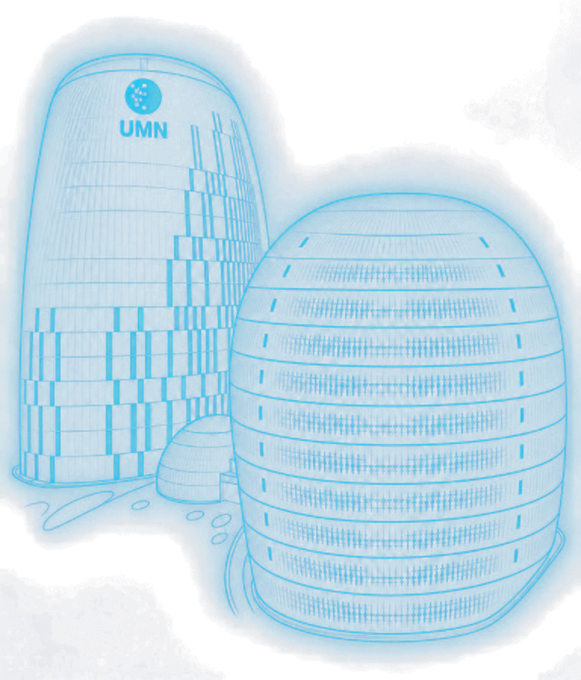
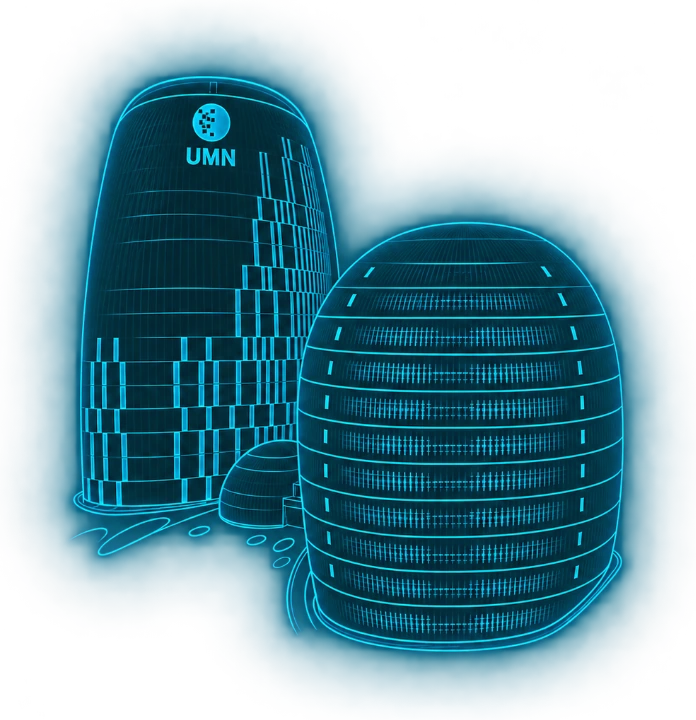
style: ganti gedung Workspace dengan UMN Blueprint baru & perbesar skalanya

diff --git a/index.html b/index.html
@@ -2302,9 +2302,9 @@
 
       wsEl.innerHTML = `
         <div class="min-h-[calc(100vh-11.5rem)] flex items-center py-6 lg:py-8">
-          <div class="w-full grid grid-cols-1 lg:grid-cols-12 gap-10 xl:gap-14 items-center">
+          <div class="w-full grid grid-cols-1 lg:grid-cols-12 gap-8 xl:gap-10 items-center">
             <!-- Left Column: Hero, 3 Application Cards & Data PIC Access -->
-            <div class="lg:col-span-6 space-y-6">
+            <div class="lg:col-span-6 xl:col-span-5 space-y-6">
               <div class="space-y-2.5">
                 <div class="space-y-1">
                   <div class="text-lg sm:text-xl font-medium text-slate-400">Welcome to</div>
@@ -2420,14 +2420,14 @@
               </div>
             </div>
 
-            <!-- Right Column: Neon Cyan UMN Twin Towers Workspace Illustration -->
-            <div class="lg:col-span-6 flex flex-col items-center justify-center">
-              <div class="w-full max-w-[540px] relative select-none" aria-hidden="true">
-                <svg viewBox="0 0 540 460" class="w-full h-auto drop-shadow-[0_20px_50px_rgba(2,195,249,0.12)]" fill="none" xmlns="http://www.w3.org/2000/svg">
+            <!-- Right Column: Enlarged Glowing Cyan UMN Building Blueprint -->
+            <div class="lg:col-span-6 xl:col-span-7 flex flex-col items-center justify-center">
+              <div class="w-full max-w-[660px] relative select-none" aria-hidden="true">
+                <svg viewBox="0 0 600 520" class="w-full h-auto drop-shadow-[0_24px_60px_rgba(2,195,249,0.14)]" fill="none" xmlns="http://www.w3.org/2000/svg">
                   <defs>
                     <radialGradient id="ws-glow" cx="50%" cy="50%" r="50%">
-                      <stop offset="0%" stop-color="#02c3f9" stop-opacity="0.18"/>
-                      <stop offset="65%" stop-color="#02c3f9" stop-opacity="0.04"/>
+                      <stop offset="0%" stop-color="#02c3f9" stop-opacity="0.16"/>
+                      <stop offset="65%" stop-color="#02c3f9" stop-opacity="0.03"/>
                       <stop offset="100%" stop-color="#090B0E" stop-opacity="0"/>
                     </radialGradient>
                     <radialGradient id="ws-ground" cx="50%" cy="50%" r="50%">
@@ -2437,50 +2437,50 @@
                   </defs>
 
                   <!-- Soft Ambient Glow & Orbit Rings -->
-                  <circle cx="270" cy="232" r="212" fill="url(#ws-glow)"/>
-                  <circle cx="270" cy="232" r="204" stroke="#1E293B" stroke-width="1" opacity="0.6"/>
-                  <circle cx="270" cy="232" r="176" stroke="#263345" stroke-width="1.2" stroke-dasharray="4 7" opacity="0.8"/>
+                  <circle cx="300" cy="260" r="248" fill="url(#ws-glow)"/>
+                  <circle cx="300" cy="260" r="236" stroke="#1E293B" stroke-width="1" opacity="0.6"/>
+                  <circle cx="300" cy="260" r="204" stroke="#263345" stroke-width="1.2" stroke-dasharray="4 7" opacity="0.8"/>
 
                   <!-- Subtle Base Reflection Under Towers -->
-                  <ellipse cx="270" cy="396" rx="170" ry="26" fill="url(#ws-ground)"/>
+                  <ellipse cx="300" cy="454" rx="205" ry="28" fill="url(#ws-ground)"/>
 
                   <!-- Floating Accent Orbit Dots -->
-                  <circle cx="152" cy="58" r="3.5" fill="#02c3f9"/>
-                  <circle cx="388" cy="62" r="3.5" fill="#02c3f9"/>
-                  <circle cx="66" cy="234" r="3.5" fill="#02c3f9"/>
-                  <circle cx="474" cy="226" r="3.2" fill="#38BDF8"/>
+                  <circle cx="164" cy="54" r="3.8" fill="#02c3f9"/>
+                  <circle cx="434" cy="60" r="3.8" fill="#02c3f9"/>
+                  <circle cx="64" cy="264" r="3.8" fill="#02c3f9"/>
+                  <circle cx="536" cy="252" r="3.4" fill="#38BDF8"/>
 
-                  <!-- Neon Cyan UMN Twin Towers Artwork (Transparent Seamless Blend) -->
-                  <image href="./umn-twin-towers.webp" x="118" y="48" width="304" height="356" preserveAspectRatio="xMidYMid meet" />
+                  <!-- Glowing Cyan UMN Building Blueprint (Enlarged Hero Scale) -->
+                  <image href="./umn-twin-towers.webp?v=2" x="78" y="28" width="444" height="460" preserveAspectRatio="xMidYMid meet" />
 
                   <!-- Floating Tile 1: Top-Left Cyan Rundown Monitor -->
                   <g>
-                    <rect x="24" y="96" width="76" height="76" rx="18" fill="#0F2635" fill-opacity="0.92" stroke="#02c3f9" stroke-opacity="0.55" stroke-width="1.6"/>
-                    <rect x="43" y="116" width="38" height="27" rx="5" stroke="#02c3f9" stroke-width="2.3"/>
-                    <polyline points="49,129.5 55.5,129.5 59,123 63.5,136 67,129.5 74.5,129.5" stroke="#02c3f9" stroke-width="2.1" stroke-linecap="round" stroke-linejoin="round"/>
-                    <line x1="54" y1="151" x2="70" y2="151" stroke="#02c3f9" stroke-width="2.3" stroke-linecap="round"/>
+                    <rect x="20" y="92" width="78" height="78" rx="18" fill="#0F2635" fill-opacity="0.92" stroke="#02c3f9" stroke-opacity="0.55" stroke-width="1.6"/>
+                    <rect x="40" y="113" width="38" height="27" rx="5" stroke="#02c3f9" stroke-width="2.3"/>
+                    <polyline points="46,126.5 52.5,126.5 56,120 60.5,133 64,126.5 71.5,126.5" stroke="#02c3f9" stroke-width="2.1" stroke-linecap="round" stroke-linejoin="round"/>
+                    <line x1="51" y1="148" x2="67" y2="148" stroke="#02c3f9" stroke-width="2.3" stroke-linecap="round"/>
                   </g>
 
                   <!-- Floating Tile 2: Top-Right Orange Jadwal PIC -->
                   <g>
-                    <rect x="420" y="88" width="76" height="76" rx="18" fill="#2A1D13" fill-opacity="0.92" stroke="#FB923C" stroke-opacity="0.55" stroke-width="1.6"/>
-                    <rect x="441" y="111" width="34" height="32" rx="5" stroke="#FB923C" stroke-width="2.3"/>
-                    <line x1="450" y1="105" x2="450" y2="115" stroke="#FB923C" stroke-width="2.3" stroke-linecap="round"/>
-                    <line x1="466" y1="105" x2="466" y2="115" stroke="#FB923C" stroke-width="2.3" stroke-linecap="round"/>
-                    <line x1="441" y1="121" x2="475" y2="121" stroke="#FB923C" stroke-width="2.1"/>
-                    <circle cx="450" cy="130" r="1.7" fill="#FB923C"/>
-                    <circle cx="458" cy="130" r="1.7" fill="#FB923C"/>
-                    <circle cx="466" cy="130" r="1.7" fill="#FB923C"/>
-                    <circle cx="450" cy="137" r="1.7" fill="#FB923C"/>
-                    <circle cx="458" cy="137" r="1.7" fill="#FB923C"/>
+                    <rect x="476" y="76" width="78" height="78" rx="18" fill="#2A1D13" fill-opacity="0.92" stroke="#FB923C" stroke-opacity="0.55" stroke-width="1.6"/>
+                    <rect x="498" y="100" width="34" height="32" rx="5" stroke="#FB923C" stroke-width="2.3"/>
+                    <line x1="507" y1="94" x2="507" y2="104" stroke="#FB923C" stroke-width="2.3" stroke-linecap="round"/>
+                    <line x1="523" y1="94" x2="523" y2="104" stroke="#FB923C" stroke-width="2.3" stroke-linecap="round"/>
+                    <line x1="498" y1="110" x2="532" y2="110" stroke="#FB923C" stroke-width="2.1"/>
+                    <circle cx="507" cy="119" r="1.7" fill="#FB923C"/>
+                    <circle cx="515" cy="119" r="1.7" fill="#FB923C"/>
+                    <circle cx="523" cy="119" r="1.7" fill="#FB923C"/>
+                    <circle cx="507" cy="126" r="1.7" fill="#FB923C"/>
+                    <circle cx="515" cy="126" r="1.7" fill="#FB923C"/>
                   </g>
 
                   <!-- Floating Tile 3: Bottom-Right Emerald Absensi PIC -->
                   <g>
-                    <rect x="436" y="286" width="76" height="76" rx="18" fill="#0F2A21" fill-opacity="0.92" stroke="#34D399" stroke-opacity="0.55" stroke-width="1.6"/>
-                    <rect x="458" y="306" width="32" height="38" rx="5" stroke="#34D399" stroke-width="2.3"/>
-                    <rect x="466" y="300" width="16" height="9" rx="3" fill="#0F2A21" stroke="#34D399" stroke-width="2.1"/>
-                    <polyline points="467,326 472,331.5 482,320.5" stroke="#34D399" stroke-width="2.4" stroke-linecap="round" stroke-linejoin="round"/>
+                    <rect x="502" y="334" width="78" height="78" rx="18" fill="#0F2A21" fill-opacity="0.92" stroke="#34D399" stroke-opacity="0.55" stroke-width="1.6"/>
+                    <rect x="525" y="355" width="32" height="38" rx="5" stroke="#34D399" stroke-width="2.3"/>
+                    <rect x="533" y="349" width="16" height="9" rx="3" fill="#0F2A21" stroke="#34D399" stroke-width="2.1"/>
+                    <polyline points="534,375 539,380.5 549,369.5" stroke="#34D399" stroke-width="2.4" stroke-linecap="round" stroke-linejoin="round"/>
                   </g>
                 </svg>
               </div>

diff --git a/sw.js b/sw.js
@@ -1,4 +1,4 @@
-const CACHE_NAME = 'rundown-live-shell-v8';
+const CACHE_NAME = 'rundown-live-shell-v9';
 const APP_SHELL = [
   './',
   './index.html',
